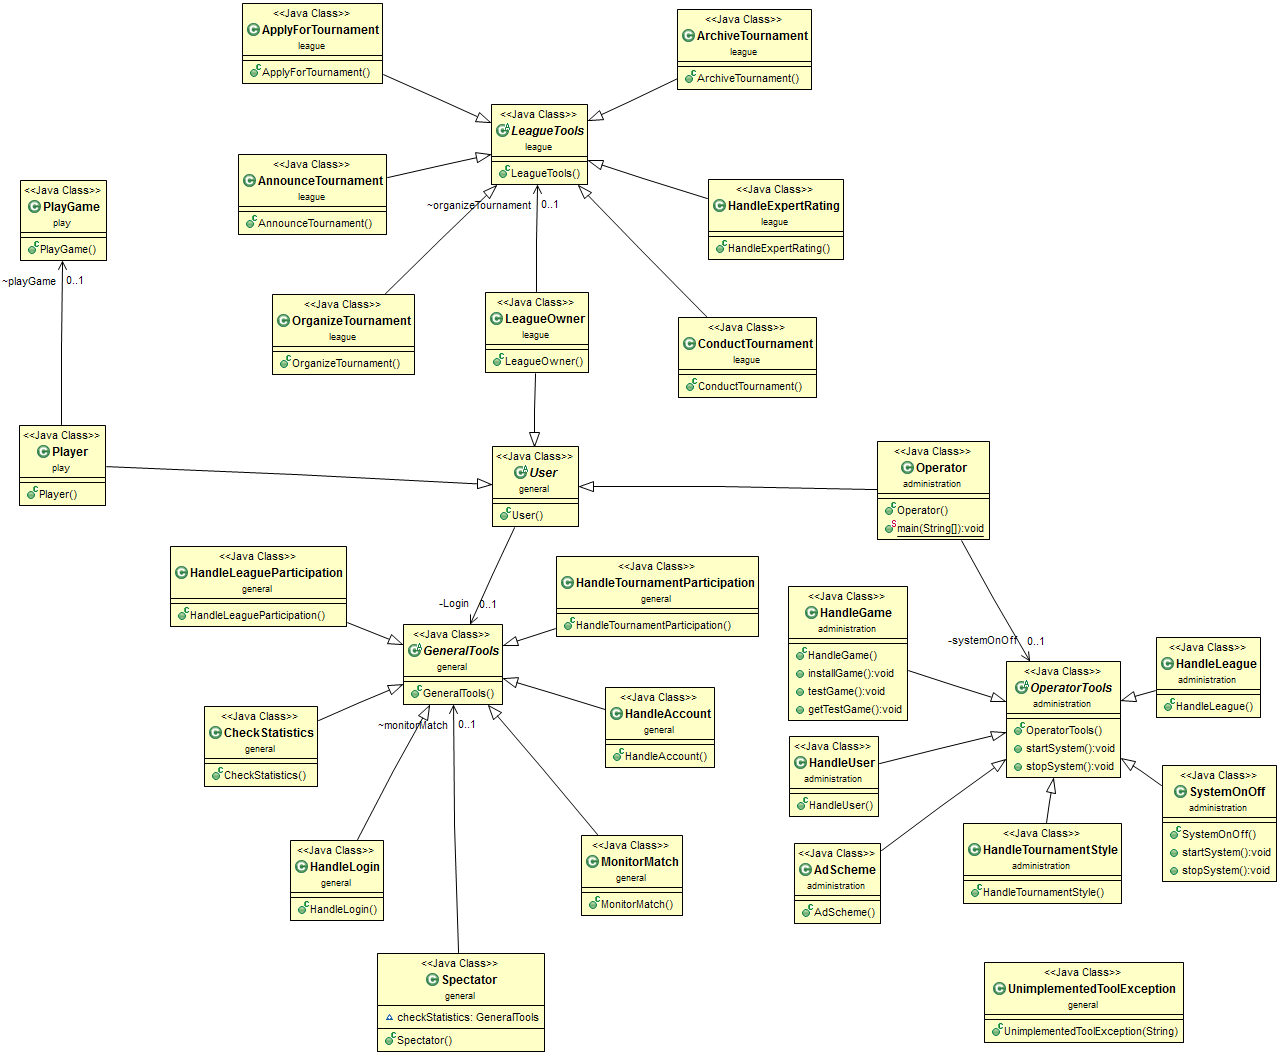
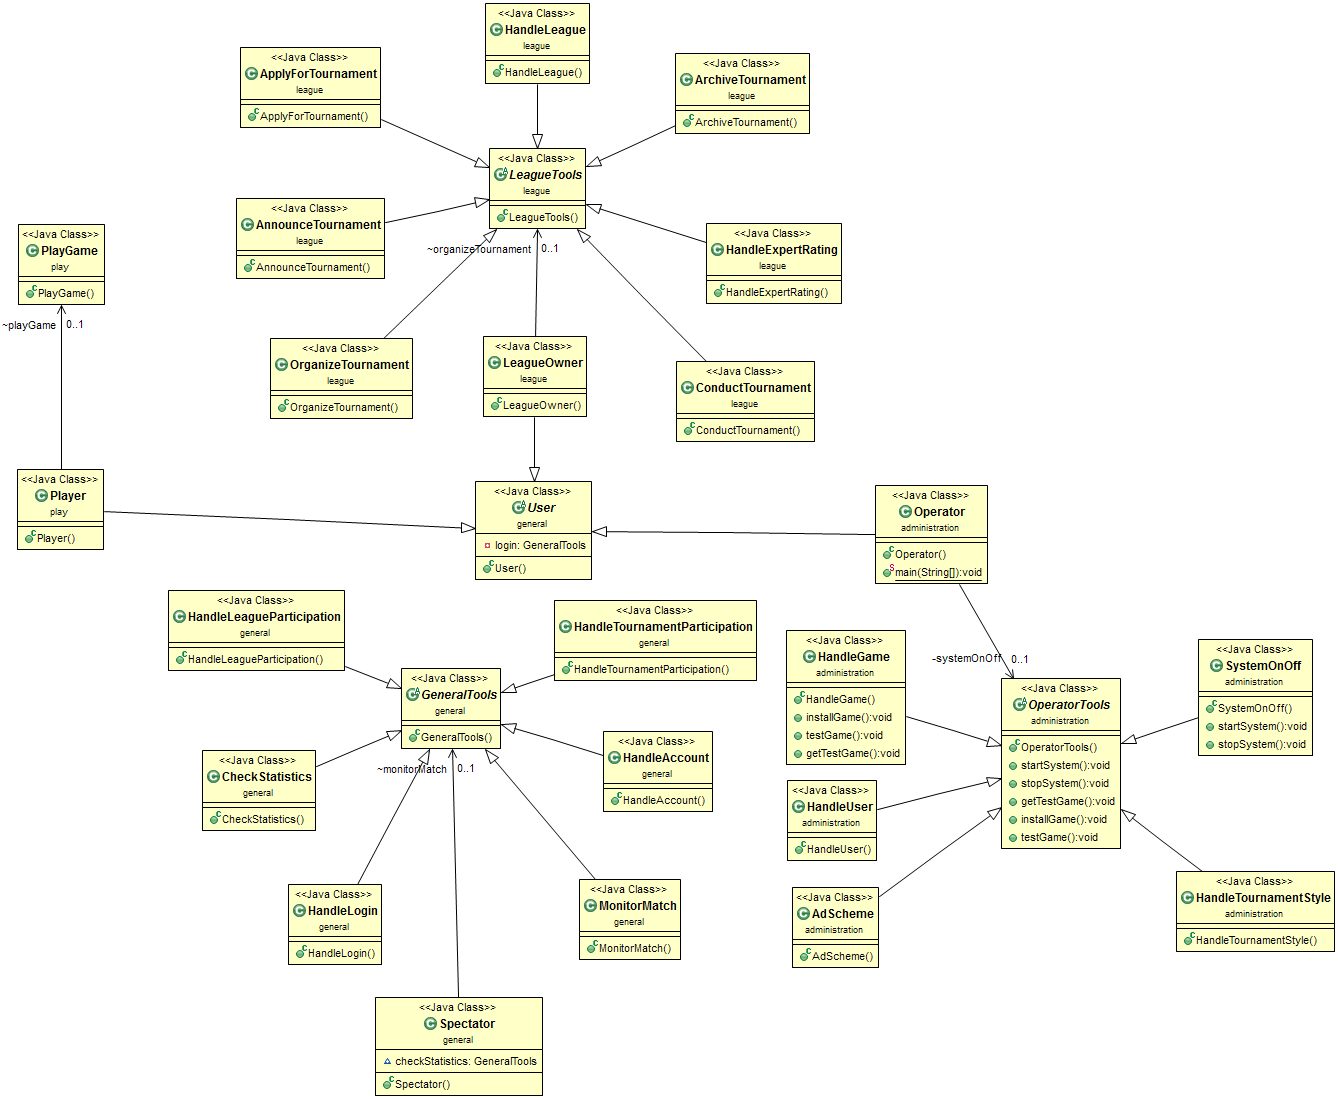
Finalized class structure

diff --git a/src/league/ConductTournament.java b/src/league/ConductTournament.java
@@ -1,5 +1,23 @@
 package league;
 
+/**
+ * 
+ * @author Axel Sigl
+ *
+ */
 public class ConductTournament extends LeagueTools{
-
+	
+	public void startTournament(){
+		
+	}
+	
+	public void scheduleMatches(){
+		
+	}
+	
+	public void submitAdvertisement(){
+		
+	}
+	
+	
 }

diff --git a/src/league/LeagueOwner.java b/src/league/LeagueOwner.java
@@ -2,6 +2,12 @@ package league;
 
 import general.User;
 
+/**
+ * 
+ * @author Axel Sigl
+ *
+ */
 public class LeagueOwner extends User{
-	LeagueTools organizeTournament;
+	private LeagueTools conductTournament;
+	
 }

diff --git a/src/general/Spectator.java b/src/general/Spectator.java
@@ -6,6 +6,6 @@ package general;
  *
  */
 public class Spectator {
-	GeneralTools monitorMatch;
-	GeneralTools checkStatistics;
+	private GeneralTools monitorMatch;
+	private GeneralTools checkStatistics;
 }

diff --git a/src/league/ArchiveTournament.java b/src/league/ArchiveTournament.java
@@ -1,5 +1,13 @@
 package league;
 
+/**
+ * 
+ * @author Axel Sigl
+ *
+ */
 public class ArchiveTournament extends LeagueTools{
 
+	public void archiveTournament(){
+		
+	}
 }

diff --git a/src/general/User.java b/src/general/User.java
@@ -1,5 +1,11 @@
 package general;
 
+/**
+ * 
+ * @author Axel Sigl
+ *
+ */
 public abstract class User {
-	private GeneralTools Login;
+	private GeneralTools login;
+	
 }

diff --git a/src/league/HandleLeague.java b/src/league/HandleLeague.java
@@ -5,6 +5,6 @@ package league;
  * @author Axel Sigl
  *
  */
-public class AnnounceTournament extends LeagueTools{
+public class HandleLeague extends LeagueTools{
 
 }

diff --git a/src/advertisement/Advertiser.java b/src/advertisement/Advertiser.java
@@ -1,0 +1,10 @@
+package advertisement;
+
+/**
+ * 
+ * @author Axel Sigl
+ *
+ */
+public class Advertiser {
+	private AdvertiserTools defineAdvertisementScheme;
+}

diff --git a/src/play/Player.java b/src/play/Player.java
@@ -2,6 +2,11 @@ package play;
 
 import general.User;
 
+/**
+ * 
+ * @author Axel Sigl
+ *
+ */
 public class Player extends User{
 	PlayGame playGame;
 }

diff --git a/src/advertisement/HandleAccountBalance.java b/src/advertisement/HandleAccountBalance.java
@@ -1,0 +1,10 @@
+package advertisement;
+
+/**
+ * 
+ * @author Axel Sigl
+ *
+ */
+public class HandleAccountBalance extends AdvertiserTools{
+
+}

diff --git a/src/general/HandleTournamentParticipation.java b/src/general/HandleTournamentParticipation.java
@@ -1,5 +1,10 @@
 package general;
 
+/**
+ * 
+ * @author Axel Sigl
+ *
+ */
 public class HandleTournamentParticipation extends GeneralTools{
 
 }

diff --git a/src/advertisement/HandleAdvertisement.java b/src/advertisement/HandleAdvertisement.java
@@ -1,0 +1,10 @@
+package advertisement;
+
+/**
+ * 
+ * @author Axel Sigl
+ *
+ */
+public class HandleAdvertisement extends AdvertiserTools{
+
+}

diff --git a/src/advertisement/DefineAdvertisementScheme.java b/src/advertisement/DefineAdvertisementScheme.java
@@ -1,0 +1,10 @@
+package advertisement;
+
+/**
+ * 
+ * @author Axel Sigl
+ *
+ */
+class DefineAdvertisementScheme extends AdvertiserTools{
+
+}
